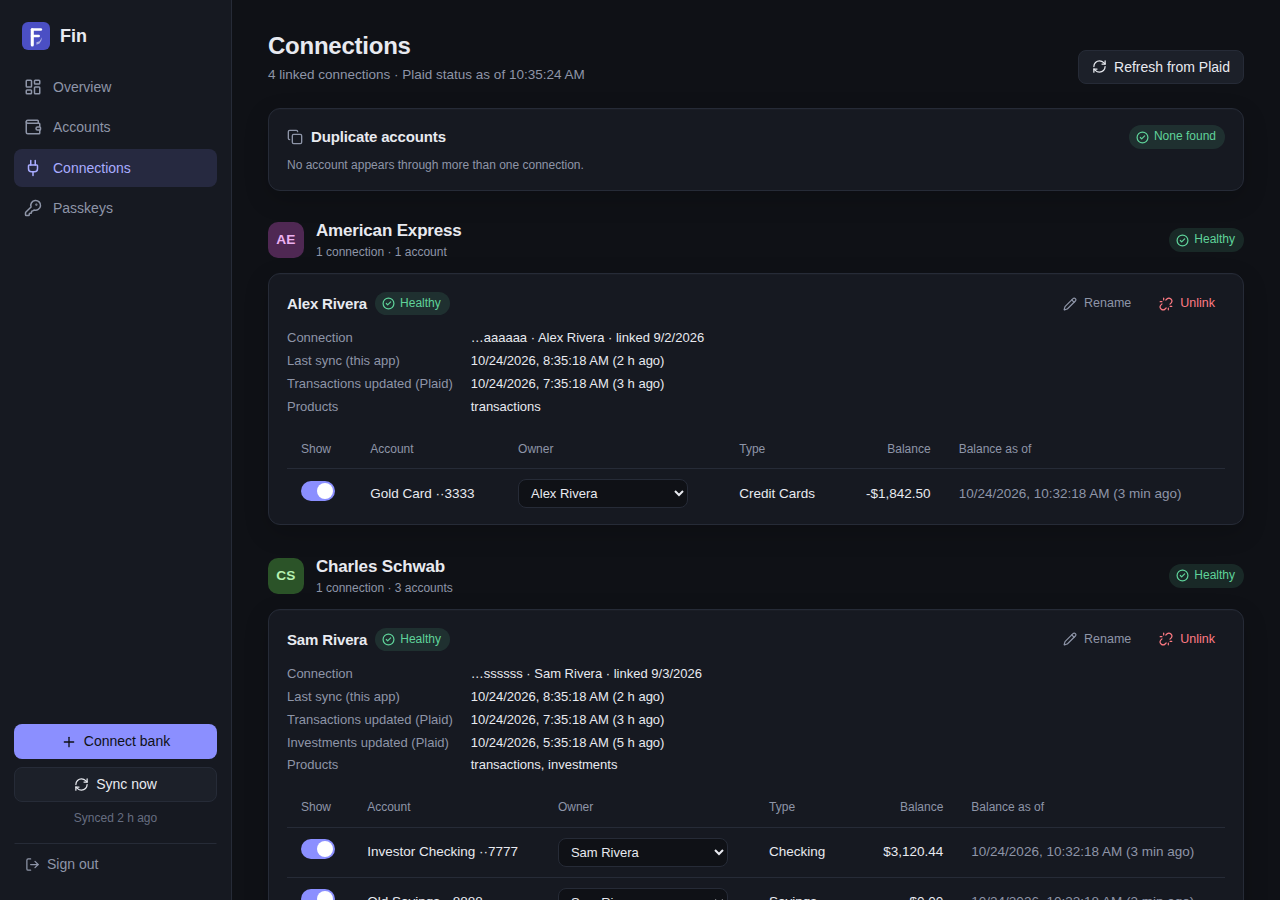
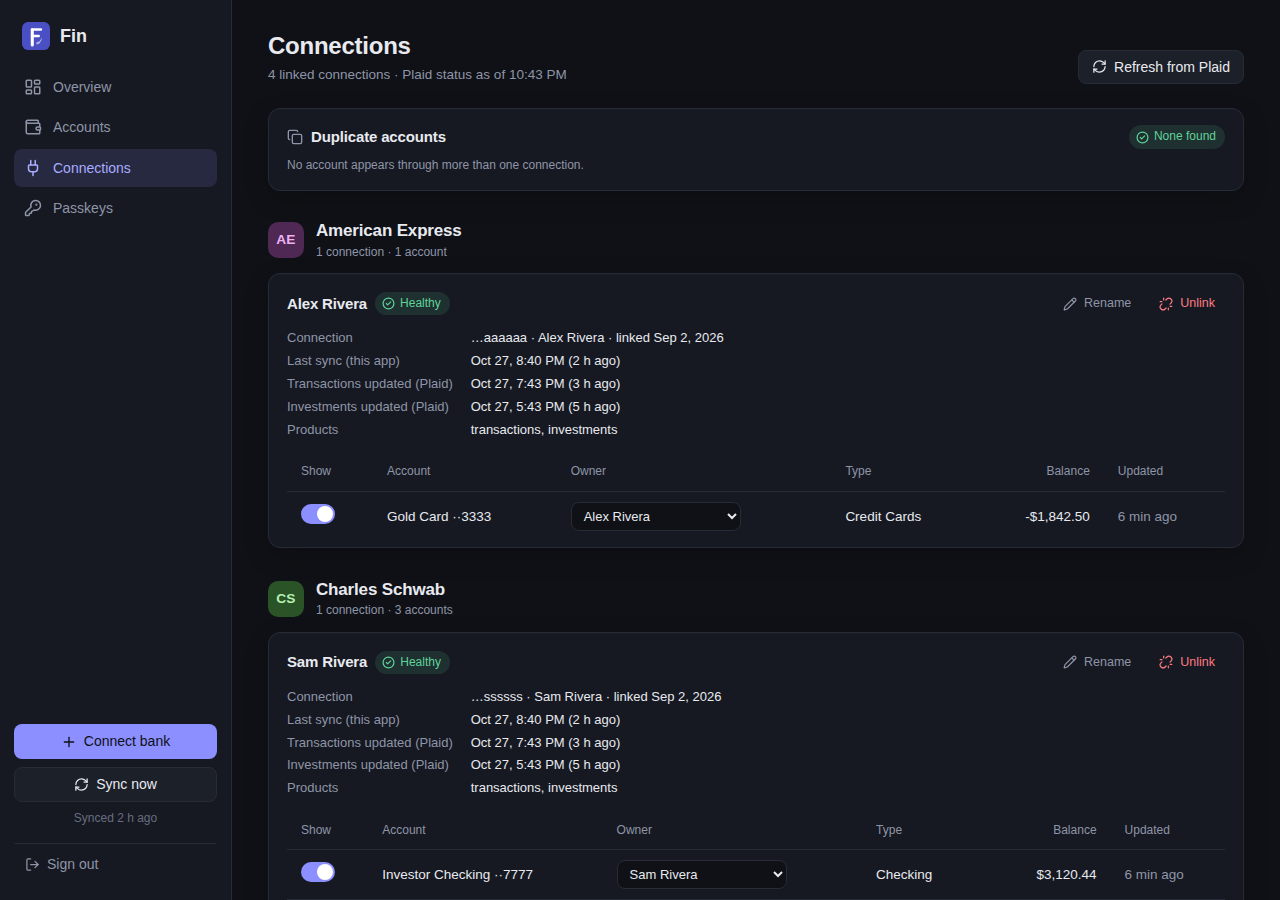
Design pass: friendlier dates, phone layouts, day-grouped register
- Dates read "Oct 27, 10:29 PM" (year only when not this year); ago() handles future times ("in 30 d")
- Overview: compact three-tile row on phones, with color dots keying the cash/investments bar
- Accounts: an owner gets a Total card like a single account; register rows grouped under day headings;
  the Pending tag stays full strength on faded pending rows
- Holdings: phones show security, value and gain (stale mark moves next to value), no sideways scroll
- Connections: account rows stack as cards when the card is under 700px; "Updated" shows relative time;
  institution pill only with several connections; errors as a callout (headline + raw message);
  icon-only Rename/Unlink on phones
- Passkeys: Sign out only on phones (the nav rail has it on desktop)
- Holdings API test uses today's date for fresh prices so it doesn't go stale
- README screenshots regenerated

diff --git a/web/src/pages/Connections.svelte b/web/src/pages/Connections.svelte
@@ -1,6 +1,6 @@
 <!-- /connections: linked banks grouped by institution, with health, per-account owner and visibility, duplicates, rename and unlink. -->
 <script lang="ts">
-  import { Copy, Pencil, Plug, RefreshCw, Unlink } from "@lucide/svelte";
+  import { CircleX, Copy, Pencil, Plug, RefreshCw, Unlink } from "@lucide/svelte";
   import Avatar from "../components/Avatar.svelte";
   import Dialog from "../components/Dialog.svelte";
   import Empty from "../components/Empty.svelte";
@@ -9,7 +9,7 @@
   import Switch from "../components/Switch.svelte";
   import { api, message } from "../lib/api";
   import { changed, data, updateAccount } from "../lib/data.svelte";
-  import { ago, byName, cmp, groupBy, ownerList, plural, usd } from "../lib/format";
+  import { ago, byName, cmp, dateTime, groupBy, ownerList, plural, shortDate, usd } from "../lib/format";
   import { startLink } from "../lib/link.svelte";
   import type { Account, Duplicates, Item } from "../lib/types";
 
@@ -78,11 +78,19 @@
     unlinkBusy = false;
   }
 
+  // What's wrong with a connection, as [headline, detail] pairs: a plain-language headline over the raw message.
+  const problems = (i: Item) => ([
+    ["Last sync failed", i.last_error],
+    ["Plaid reports a problem with this login", i.plaid?.error],
+    ["Plaid's last transactions update failed", failedAfterSuccess(i) ? when(i.plaid?.transactions_last_failure) : null],
+    ["Couldn't get this connection's status from Plaid", i.plaid_error],
+  ] as [string, string | null | undefined][]).filter((p): p is [string, string] => !!p[1]);
+
   async function refresh() { refreshing = true; await load(true); refreshing = false; }
-  const when = (iso: string | null | undefined) => iso ? `${new Date(iso).toLocaleString()} (${ago(iso)})` : "—";
+  const when = (iso: string | null | undefined) => iso ? `${dateTime(iso)} (${ago(iso)})` : "—";
 </script>
 
-<PageHeader title="Connections" subtitle={loaded ? `${plural(items.length, "linked connection")}${fetched ? " · Plaid status as of " + new Date(fetched).toLocaleTimeString() : ""}` : "Loading…"}>
+<PageHeader title="Connections" subtitle={loaded ? `${plural(items.length, "linked connection")}${fetched ? " · Plaid status as of " + new Date(fetched).toLocaleTimeString(undefined, { hour: "numeric", minute: "2-digit" }) : ""}` : "Loading…"}>
   {#snippet actions()}
     <button class="ghost" onclick={refresh} disabled={refreshing} title="Ask Plaid for fresh connection status"><RefreshCw size={15} class={refreshing ? "spin" : ""} aria-hidden="true" />Refresh from Plaid</button>
   {/snippet}
@@ -126,7 +134,7 @@
     <div class="ihead">
       <Avatar name={inst.name} size={36} square />
       <div class="it"><h2>{inst.name}</h2><span class="muted small">{plural(inst.list.length, "connection")} · {plural(inst.list.reduce((n, i) => n + i.accounts.length, 0), "account")}</span></div>
-      <Pill {tone} {label} />
+      {#if inst.list.length > 1}<Pill {tone} {label} />{/if}<!-- one connection: its own pill says it -->
     </div>
     {#each inst.list as i (i.item_id)}
       {@const [t, l] = health(i)}
@@ -135,38 +143,37 @@
           <h3>{i.label}</h3>
           <Pill tone={t} label={l} />
           <span class="spacer"></span>
-          <button class="quiet sm" onclick={() => { renaming = i; nickname = i.nickname ?? ""; renameOpen = true; }}><Pencil size={14} aria-hidden="true" />Rename</button>
-          <button class="quiet danger sm" onclick={() => { unlinking = i; unlinkErr = ""; unlinkOpen = true; }}><Unlink size={14} aria-hidden="true" />Unlink</button>
+          <button class="quiet sm" onclick={() => { renaming = i; nickname = i.nickname ?? ""; renameOpen = true; }}><Pencil size={14} aria-hidden="true" /><span class="lbl">Rename</span></button>
+          <button class="quiet danger sm" onclick={() => { unlinking = i; unlinkErr = ""; unlinkOpen = true; }}><Unlink size={14} aria-hidden="true" /><span class="lbl">Unlink</span></button>
         </div>
         <dl>
-          <dt>Connection</dt><dd>{i.suffix ? "…" + i.suffix : ""}{i.owners.length ? ` · ${[...i.owners].sort(cmp).join(", ")}` : ""}{i.created_at ? ` · linked ${new Date(i.created_at).toLocaleDateString()}` : ""}</dd>
+          <dt>Connection</dt><dd>{i.suffix ? "…" + i.suffix : ""}{i.owners.length ? ` · ${[...i.owners].sort(cmp).join(", ")}` : ""}{i.created_at ? ` · linked ${shortDate(i.created_at)}` : ""}</dd>
           <dt>Last sync (this app)</dt><dd>{when(i.last_synced)}</dd>
           {#if i.plaid}<dt>Transactions updated (Plaid)</dt><dd>{when(i.plaid.transactions_last_success)}</dd>{/if}
           {#if i.plaid?.investments_last_success}<dt>Investments updated (Plaid)</dt><dd>{when(i.plaid.investments_last_success)}</dd>{/if}
           {#if i.plaid?.consent_expiration_time}<dt>Consent expires</dt><dd>{when(i.plaid.consent_expiration_time)}</dd>{/if}
           {#if i.plaid}<dt>Products</dt><dd>{(i.plaid.consented_products || []).join(", ") || "—"}</dd>{/if}
         </dl>
-        {#if i.last_error}<p class="err">Sync error: {i.last_error}</p>{/if}
-        {#if i.plaid?.error}<p class="err">Plaid item error: {i.plaid.error}</p>{/if}
-        {#if failedAfterSuccess(i)}<p class="err">Last transactions update failed {when(i.plaid?.transactions_last_failure)}</p>{/if}
-        {#if i.plaid_error}<p class="err">Could not reach Plaid for this item: {i.plaid_error}</p>{/if}
-        <div class="scroll-x"><table class="data">
-          <thead><tr><th>Show</th><th>Account</th><th>Owner</th><th>Type</th><th class="num">Balance</th><th>Balance as of</th></tr></thead>
+        {#each problems(i) as [title, detail] (title)}
+          <div class="alert"><CircleX size={16} aria-hidden="true" /><div><b>{title}</b><span>{detail}</span></div></div>
+        {/each}
+        <div class="scroll-x"><table class="data accts">
+          <thead><tr><th>Show</th><th>Account</th><th>Owner</th><th>Type</th><th class="num">Balance</th><th>Updated</th></tr></thead>
           <tbody>
             {#each [...i.accounts].sort(byName) as a (a.account_id)}
               <tr class:off={a.hidden}>
-                <td><Switch checked={!a.hidden} label={`Show ${a.name}`} onchange={(v) => setShown(a, v)} /></td>
-                <td class="dim">{a.name}{a.mask ? " ··" + a.mask : ""}{#if a.hidden}<small>Hidden</small>{/if}</td>
-                <td>
+                <td class="show"><Switch checked={!a.hidden} label={`Show ${a.name}`} onchange={(v) => setShown(a, v)} /></td>
+                <td class="dim aname">{a.name}{a.mask ? " ··" + a.mask : ""}{#if a.hidden}<small>Hidden</small>{/if}</td>
+                <td class="owner">
                   <select class="ownersel" aria-label={`Owner of ${a.name}`} value={a.owner_override ?? ""} onchange={(e) => pickOwner(a, e.currentTarget)}>
                     <option value="">Detected: {a.owner_detected ?? "none"}</option>
                     {#each ownerOptions(a) as o (o)}<option value={o}>{o}</option>{/each}
                     <option value="__new__">New owner…</option>
                   </select>
                 </td>
-                <td class="dim">{a.group}</td>
-                <td class="num dim">{usd(a.balance, a.currency)}</td>
-                <td class="dim muted">{when(a.updated_at)}</td>
+                <td class="dim type">{a.group}</td>
+                <td class="num dim bal">{usd(a.balance, a.currency)}</td>
+                <td class="dim muted upd" title={dateTime(a.updated_at)}>{a.updated_at ? ago(a.updated_at) : "—"}</td>
               </tr>
             {/each}
           </tbody>
@@ -204,8 +211,30 @@
   .conn { padding:16px 18px 6px; margin-bottom:12px }
   .chead { display:flex; align-items:center; gap:8px; flex-wrap:wrap } .chead h3 { font-size:15px } .spacer { flex:1 }
   dl { display:grid; grid-template-columns:max-content 1fr; gap:4px 18px; margin:12px 0 4px; font-size:13px } dt { color:var(--muted) } dd { margin:0; overflow-wrap:anywhere }
-  .conn table { margin-top:10px } .conn .err { margin:6px 0 0 }
+  .conn table { margin-top:10px }
+  .alert { display:flex; gap:10px; align-items:flex-start; margin:10px 0 0; padding:10px 12px; border-radius:var(--radius-sm); background:var(--bad-soft); color:var(--bad); font-size:13px }
+  .alert :global(svg) { flex:none; margin-top:1px } .alert b { display:block; font-weight:600 }
+  .alert span { display:block; color:var(--muted); font-size:12.5px; overflow-wrap:anywhere }
   tr.off .dim { opacity:.45 }
+  .aname { white-space:nowrap }
   .ownersel { font-size:13px; max-width:240px; min-width:170px; padding:5px 8px }
-  @media (max-width:560px) { dl { grid-template-columns:1fr; gap:0 } dd { margin-bottom:6px } }
+  /* When the card is too narrow for the table (phones, or a laptop-width window), each account row becomes a small
+     card instead of a table that scrolls sideways: switch · name · balance / owner picker / type · updated. */
+  .conn { container-type:inline-size }
+  @container (max-width: 700px) {
+    .accts thead { display:none }
+    .accts tr { display:grid; grid-template-columns:auto minmax(0, 1fr) auto; grid-template-areas:"show name bal" ". owner owner" ". type upd";
+      gap:6px 12px; align-items:center; padding:12px 0; border-bottom:1px solid var(--line) }
+    .accts tbody tr:last-child { border-bottom:0 }
+    .accts td, .accts tbody tr:hover td { padding:0; border:0; background:none }
+    .accts .show { grid-area:show } .accts .bal { grid-area:bal; font-weight:600 } .accts .owner { grid-area:owner }
+    .accts .aname { grid-area:name; white-space:normal; overflow-wrap:anywhere; font-weight:500 }
+    .accts .type { grid-area:type; color:var(--muted); font-size:12.5px } .accts .upd { grid-area:upd; text-align:right; font-size:12.5px }
+    .ownersel { width:100%; max-width:340px; min-width:0 }
+  }
+  @media (max-width:560px) {
+    dl { grid-template-columns:1fr; gap:0 } dd { margin-bottom:6px }
+    /* Icon-only actions so the name, pill and actions share one line. */
+    .lbl { position:absolute; width:1px; height:1px; overflow:hidden; clip-path:inset(50%) } .chead button { padding:6px }
+  }
 </style>

diff --git a/web/src/components/accounts/Holdings.svelte b/web/src/components/accounts/Holdings.svelte
@@ -55,19 +55,19 @@
       <h2 class="section-title pad"><Layers size={14} aria-hidden="true" />Holdings</h2>
       <div class="scroll-x">
         <table class="data">
-          <thead><tr><th>Security</th><th class="type">Type</th><th class="num">Quantity</th><th class="num">Price</th><th class="num">Value</th><th class="num">Share</th>
-            {#if hasCost}<th class="num">Cost basis</th><th class="num">Gain / loss</th>{/if}{#if hasVested}<th class="num">Vested</th>{/if}</tr></thead>
+          <thead><tr><th>Security</th><th class="type">Type</th><th class="num opt">Quantity</th><th class="num opt">Price</th><th class="num">Value</th><th class="num opt">Share</th>
+            {#if hasCost}<th class="num opt">Cost basis</th><th class="num">Gain / loss</th>{/if}{#if hasVested}<th class="num">Vested</th>{/if}</tr></thead>
           <tbody>
             {#each h.holdings as x, i (i)}
               <tr>
-                <td><span class="tick">{x.ticker || x.name || "Unknown"}</span>{#if x.ticker && x.name}<small>{x.name}</small>{/if}</td>
+                <td class="sec"><span class="tick">{x.ticker || x.name || "Unknown"}</span>{#if x.ticker && x.name}<small>{x.name}</small>{/if}</td>
                 <td class="muted type">{x.class}</td>
-                <td class="num">{qty(x.quantity)}</td>
-                <td class="num">{x.price == null ? "—" : usd(x.price, x.currency)}{#if x.price_as_of}<small class:stale={x.stale}>{#if x.stale}<TriangleAlert size={11} aria-label="Stale price" /> {/if}{day(x.price_as_of)}</small>{/if}</td>
-                <td class="num strong">{usd(x.value, x.currency)}</td>
-                <td class="num muted">{pct(x.pct)}</td>
+                <td class="num opt">{qty(x.quantity)}</td>
+                <td class="num opt">{x.price == null ? "—" : usd(x.price, x.currency)}{#if x.price_as_of}<small class:stale={x.stale}>{#if x.stale}<TriangleAlert size={11} aria-label="Stale price" /> {/if}{day(x.price_as_of)}</small>{/if}</td>
+                <td class="num strong">{#if x.stale}<span class="stalemark"><TriangleAlert size={12} aria-label="Stale price" /></span>{/if}{usd(x.value, x.currency)}</td>
+                <td class="num muted opt">{pct(x.pct)}</td>
                 {#if hasCost}
-                  <td class="num">{usd(x.cost_basis, x.currency)}</td>
+                  <td class="num opt">{usd(x.cost_basis, x.currency)}</td>
                   <td class="num" class:neg={(x.gain ?? 0) < 0} class:pos={(x.gain ?? 0) > 0}>{signed(x.gain, (n) => usd(n, x.currency))}{#if x.gain_pct != null}<small>{signed(x.gain_pct, pct)}</small>{/if}</td>
                 {/if}
                 {#if hasVested}<td class="num">{usd(x.vested_value, x.currency)}</td>{/if}
@@ -96,4 +96,13 @@
   /* A narrow card (e.g. a laptop with the account list beside it) drops the type column; the allocation above shows types. */
   .holdings { container-type:inline-size }
   @container (max-width: 860px) { .type { display:none } }
+  /* A phone keeps security, value and gain; the stale-price mark moves next to the value since the price column is gone. */
+  .stalemark { display:none; color:var(--warn); margin-right:4px; vertical-align:-1px }
+  @container (max-width: 520px) {
+    .opt { display:none } .stalemark { display:inline }
+    .sec small { max-width:110px; white-space:nowrap; overflow:hidden; text-overflow:ellipsis }
+    .holdings :global(th), .holdings :global(td) { padding-left:8px; padding-right:8px }
+    .holdings :global(th:first-child), .holdings :global(td:first-child) { padding-left:16px }
+    .holdings :global(th:last-child), .holdings :global(td:last-child) { padding-right:16px }
+  }
 </style>

diff --git a/web/src/components/accounts/Register.svelte b/web/src/components/accounts/Register.svelte
@@ -80,6 +80,7 @@
   }
   $effect(() => { if (active >= 0) document.getElementById("popt" + active)?.scrollIntoView({ block: "nearest" }); });
 
+  const cols = $derived(names ? 4 : 3);
   const category = (c: string | null) => (c || "").replace(/_/g, " ").toLowerCase();
 </script>
 
@@ -111,19 +112,20 @@
 
 <div class="card scroll-x">
   <table class="data">
-    <thead><tr><th>Date</th>{#if names}<th>Account</th>{/if}<th>Payee</th><th>Category</th><th class="num">Amount</th></tr></thead>
+    <thead><tr><th>Payee</th>{#if names}<th>Account</th>{/if}<th>Category</th><th class="num">Amount</th></tr></thead>
     <tbody>
-      {#each rows as t (t.transaction_id)}
+      <!-- Rows come newest first; a day heading starts each new date instead of repeating it on every row. -->
+      {#each rows as t, n (t.transaction_id)}
         {@const amt = -t.amount /* Plaid: positive = money out */}
+        {#if n === 0 || rows[n - 1].date !== t.date}<tr class="dayrow"><th colspan={cols} scope="colgroup">{day(t.date)}</th></tr>{/if}
         <tr class:pending={t.pending}>
-          <td class="muted date">{day(t.date)}</td>
-          {#if names}<td class="muted">{names[t.account_id]}</td>{/if}
-          <td class="payee">{t.merchant || t.name}{#if t.pending}<span class="tag">Pending</span>{/if}</td>
-          <td>{#if t.category}<span class="cat">{category(t.category)}</span>{/if}</td>
-          <td class="num" class:neg={amt < 0} class:pos={amt > 0}>{amt > 0 ? "+" : ""}{usd(amt)}</td>
+          <td class="payee"><span class="fade">{t.merchant || t.name}</span>{#if t.pending}<span class="tag">Pending</span>{/if}</td>
+          {#if names}<td class="muted fade">{names[t.account_id]}</td>{/if}
+          <td class="fade">{#if t.category}<span class="cat">{category(t.category)}</span>{/if}</td>
+          <td class="num fade" class:neg={amt < 0} class:pos={amt > 0}>{amt > 0 ? "+" : ""}{usd(amt)}</td>
         </tr>
       {:else}
-        {#if !status}<tr><td colspan={names ? 5 : 4} class="muted">{filter.payee || filter.q ? "No matching transactions." : "No transactions yet."}</td></tr>{/if}
+        {#if !status}<tr><td colspan={cols} class="muted">{filter.payee || filter.q ? "No matching transactions." : "No transactions yet."}</td></tr>{/if}
       {/each}
     </tbody>
   </table>
@@ -145,9 +147,11 @@
   .popt .n { color:var(--muted); font-variant-numeric:tabular-nums } mark { background:none; color:var(--accent); font-weight:600 }
   .pnote { padding:7px 10px; color:var(--muted); font-size:12px }
   .fchip { display:inline-flex; align-items:center; gap:6px; background:var(--accent-soft); color:var(--accent-strong); border-radius:99px; padding:3px 4px 3px 12px; font-size:13px }
-  .date { white-space:nowrap } .payee { font-weight:500 }
+  .payee { font-weight:500 }
+  .dayrow th { padding:9px 14px 7px; font-size:12px; font-weight:600; color:var(--muted); background:var(--surface-2) }
+  table :global(tbody tr.dayrow:hover th) { background:var(--surface-2) }
   .cat { font-size:12px; color:var(--muted); background:var(--surface-2); border:1px solid var(--line); padding:1px 8px; border-radius:99px; white-space:nowrap }
   .tag { margin-left:8px; font-size:11px; color:var(--warn); background:var(--warn-soft); padding:1px 7px; border-radius:99px }
-  tr.pending td { opacity:.6 }
+  tr.pending .fade { opacity:.6 } /* the Pending tag itself stays full strength */
   .foot { text-align:center; padding:14px; font-size:12px }
 </style>

diff --git a/web/src/pages/Home.svelte b/web/src/pages/Home.svelte
@@ -58,7 +58,7 @@
       {#each tiles as t (t.label)}
         <div class="tile">
           <IconChip icon={t.icon} tone={t.tone} />
-          <div><div class="tl">{t.label}</div><div class="tv num">{usd0(sum(t.list))}</div><div class="ts">{plural(t.list.length, "account")}</div></div>
+          <div><div class="tl"><span class="dot {t.tone}" aria-hidden="true"></span>{t.label}</div><div class="tv num">{usd0(sum(t.list))}</div><div class="ts">{plural(t.list.length, "account")}</div></div>
         </div>
       {/each}
     </div>
@@ -111,7 +111,9 @@
   .seg.ok { background:var(--ok) } .seg.accent { background:var(--accent) }
   .tiles { display:grid; grid-template-columns:repeat(auto-fit, minmax(190px, 1fr)); gap:12px; margin-top:18px }
   .tile { display:flex; align-items:center; gap:12px; padding:12px 14px; border-radius:10px; background:var(--surface-2); border:1px solid var(--line) }
-  .tl { color:var(--muted); font-size:12.5px } .tv { font-size:20px; font-weight:600 } .ts { color:var(--faint); font-size:12px }
+  .tl { color:var(--muted); font-size:12.5px }
+  .dot { display:none; width:8px; height:8px; border-radius:2px; margin-right:6px; vertical-align:1px }
+  .dot.ok { background:var(--ok) } .dot.accent { background:var(--accent) } .dot.bad { background:var(--bad) } .tv { font-size:20px; font-weight:600 } .ts { color:var(--faint); font-size:12px }
 
   .toolbar { display:flex; justify-content:space-between; align-items:center; gap:12px 20px; flex-wrap:wrap; margin:0 0 8px }
   .filters { display:flex; gap:6px; flex-wrap:wrap }
@@ -135,5 +137,10 @@
   .w { color:var(--muted); font-size:12px; line-height:1.4; min-height:2.8em; overflow-wrap:anywhere; display:-webkit-box; -webkit-box-orient:vertical; -webkit-line-clamp:2; line-clamp:2; overflow:hidden }
   .aval { font-size:24px; font-weight:600; margin-top:auto; padding-top:14px; letter-spacing:-.01em }
   .afoot { color:var(--muted); font-size:12px; line-height:1.4; min-height:1.4em }
-  @media (max-width:560px) { .value { font-size:34px } .toggle { margin-left:0 } }
+  @media (max-width:560px) {
+    .hero { padding:18px } .value { font-size:34px } .toggle { margin-left:0 }
+    /* Three compact tiles in a row instead of a tall stack; the bar above keeps the colors. */
+    .tiles { grid-template-columns:repeat(3, minmax(0, 1fr)); gap:8px; margin-top:14px }
+    .tile { padding:10px; gap:0 } .tile :global(.chip) { display:none } .dot { display:inline-block } .tl { font-size:12px; white-space:nowrap; overflow:hidden; text-overflow:ellipsis } /* the dot keys the bar now the icon is gone */ .tv { font-size:15px } .ts { display:none }
+  }
 </style>

diff --git a/web/src/lib/format.ts b/web/src/lib/format.ts
@@ -37,14 +37,20 @@ export const balanceOnly = (list: Account[]) => list.every((a) => !a.register);
 /** "Schwab (Alex) ··1234": where an account lives, with the connection label when one bank has several logins. */
 export const where = (a: Account) => `${a.institution}${a.multiple_connections && a.connection ? ` (${a.connection})` : ""}${a.mask ? ` ··${a.mask}` : ""}`;
 
+/** "5 min ago", "3 h ago", "2 d ago"; a future time (e.g. consent expiry) reads "in 30 d". */
 export function ago(iso: string) {
-  const m = Math.round((Date.now() - new Date(iso).getTime()) / 60000);
+  const diff = Math.round((Date.now() - new Date(iso).getTime()) / 60000), m = Math.abs(diff);
   if (m < 2) return "just now";
-  if (m < 120) return m + " min ago";
-  const h = Math.round(m / 60);
-  return h < 48 ? h + " h ago" : Math.round(h / 24) + " d ago";
+  const h = Math.round(m / 60), span = m < 120 ? m + " min" : h < 48 ? h + " h" : Math.round(h / 24) + " d";
+  return diff < 0 ? "in " + span : span + " ago";
 }
-export const dateTime = (iso: string | null | undefined) => iso ? new Date(iso).toLocaleString() : "—";
+/** "Oct 27, 10:29 PM"; the year only when it isn't this year. */
+export const dateTime = (iso: string | null | undefined) => {
+  if (!iso) return "—";
+  const d = new Date(iso);
+  return d.toLocaleString(undefined, { month: "short", day: "numeric", hour: "numeric", minute: "2-digit",
+    ...(d.getFullYear() !== new Date().getFullYear() ? { year: "numeric" } : {}) });
+};
 export const shortDate = (iso: string | null | undefined) => iso ? new Date(iso).toLocaleDateString(undefined, { year: "numeric", month: "short", day: "numeric" }) : "—";
 /** A YYYY-MM-DD date (no time zone shift). */
 export const day = (d: string) => new Date(d + "T00:00:00").toLocaleDateString(undefined, { month: "short", day: "numeric", year: "numeric" });

diff --git a/web/src/pages/Passkeys.svelte b/web/src/pages/Passkeys.svelte
@@ -5,7 +5,7 @@
   import PageHeader from "../components/PageHeader.svelte";
   import Pill from "../components/Pill.svelte";
   import { api, message, signOut } from "../lib/api";
-  import { cmp, shortDate } from "../lib/format";
+  import { cmp, dateTime, shortDate } from "../lib/format";
   import type { Passkey } from "../lib/types";
   import { registerPasskey } from "../lib/webauthn";
 
@@ -31,7 +31,7 @@
   async function invite() {
     try {
       const r = await api<{ url: string; expires_at: string }>("/api/passkeys/invite", { method: "POST" });
-      invUrl = r.url; invUntil = new Date(r.expires_at).toLocaleString(); copied = false; invOpen = true;
+      invUrl = r.url; invUntil = dateTime(r.expires_at); copied = false; invOpen = true;
       setTimeout(() => invInput?.select());
     } catch (e) { error = message(e); }
   }
@@ -51,7 +51,7 @@
   {#snippet actions()}
     <button onclick={() => { addLabel = ""; addErr = ""; addOpen = true; }}><Plus size={16} aria-hidden="true" />Add passkey on this device</button>
     <button class="ghost" onclick={invite} title="A one-time link to add a passkey on another device"><Send size={15} aria-hidden="true" />Invite link</button>
-    <button class="ghost" onclick={signOut}><LogOut size={15} aria-hidden="true" />Sign out</button>
+    <button class="ghost signout" onclick={signOut}><LogOut size={15} aria-hidden="true" />Sign out</button>
   {/snippet}
 </PageHeader>
 
@@ -97,4 +97,5 @@
   .key { display:inline-flex; padding:6px; border-radius:8px; background:var(--accent-soft); color:var(--accent) }
   .mono { font-family:ui-monospace, monospace; font-size:12px }
   @media (max-width:560px) { .hide-sm { display:none } }
+  @media (min-width:821px) { .signout { display:none } } /* the nav rail has Sign out; phones only have this one */
 </style>

diff --git a/test/api.test.ts b/test/api.test.ts
@@ -33,9 +33,10 @@ before(async () => {
   tx.run("b1", "brk", "2026-10-05", "should never appear", null); // investment accounts have no register
   const holding = db.prepare(`INSERT INTO holdings (account_id,security_id,name,ticker,security_type,is_cash,quantity,price,price_as_of,value,cost_basis)
     VALUES ('brk',?,?,?,?,?,?,?,?,?,?)`);
-  holding.run("s1", "Vanguard Total Stock Market ETF", "VTI", "etf", 0, 30, 200, "2026-10-20", 6000, 4000);
+  const today = new Date().toISOString().slice(0, 10); // fresh prices must stay fresh whenever the test runs
+  holding.run("s1", "Vanguard Total Stock Market ETF", "VTI", "etf", 0, 30, 200, today, 6000, 4000);
   holding.run("s2", "Apple Inc", "AAPL", "equity", 0, 10, 200, "2000-01-01", 2000, null);
-  holding.run("s3", "Money Market", "SPAXX", "mutual fund", 1, 1000, 1, "2026-10-20", 1000, 1000);
+  holding.run("s3", "Money Market", "SPAXX", "mutual fund", 1, 1000, 1, today, 1000, 1000);
   db.exec(`INSERT INTO passkeys (id, public_key, counter, label, created_at) VALUES ('pk', x'00', 0, 'Test', '2026-10-01')`);
   cookie = "fin_session=" + createSession("pk");
   server = createApp().listen(0);

diff --git a/web/src/pages/Accounts.svelte b/web/src/pages/Accounts.svelte
@@ -82,8 +82,12 @@
       {:else if owner}
         <header class="dhead">
           <Avatar name={owner} size={44} />
-          <div class="dt"><h1>{owner}</h1><p class="muted">{plural(mine.length, "account")} · {usd(sum(mine))}</p></div>
+          <div class="dt"><h1>{owner}</h1><p class="muted">{plural(mine.length, "account")}</p></div>
         </header>
+        <div class="balance card">
+          <div><div class="bl">Total</div><div class="bv num" class:neg={sum(mine) < 0}>{usd(sum(mine))}</div></div>
+          <div class="asof muted small">As of {dateTime(mine.map((a) => a.updated_at).filter(Boolean).sort().pop())}</div>
+        </div>
       {/if}
 
       {#each errors as e (e)}<p class="err">{e}</p>{/each}
